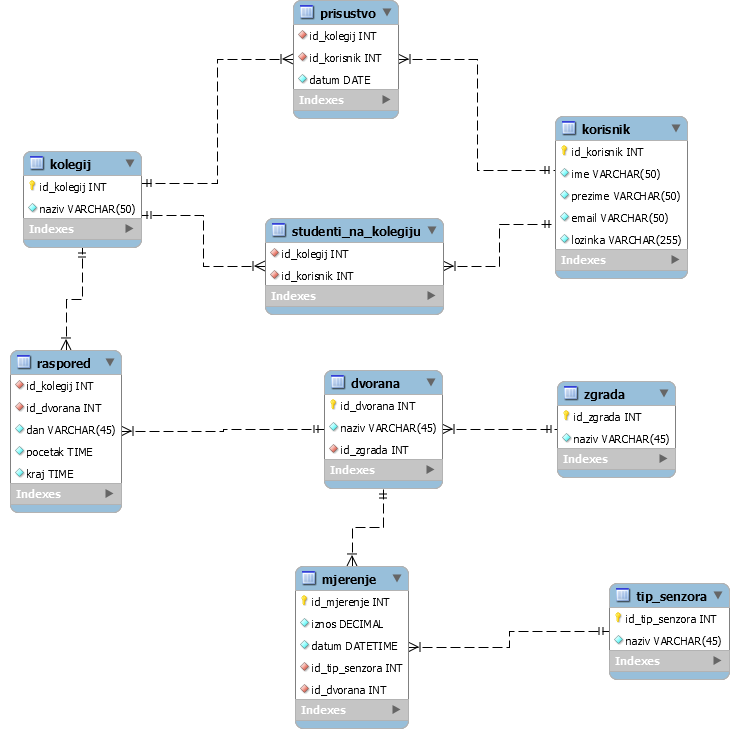
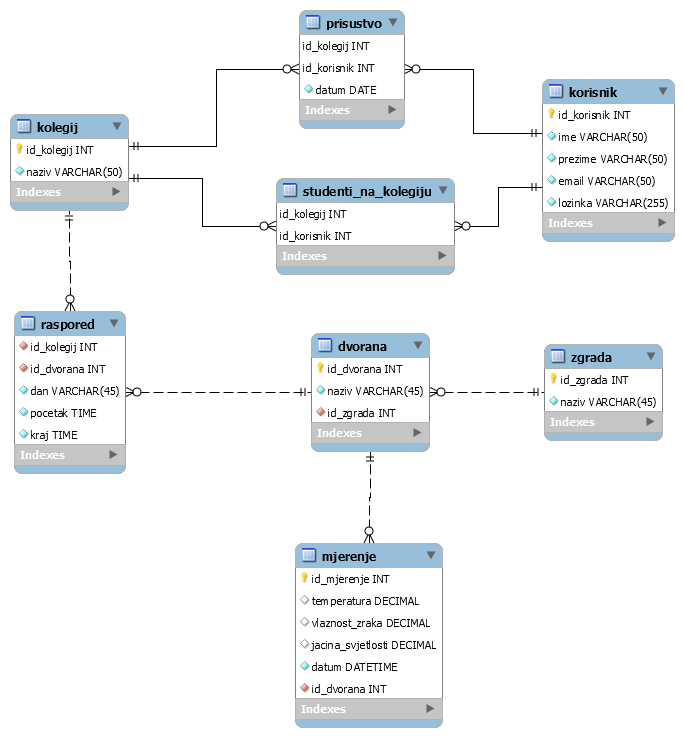
Kreiran folder za skripte web servisa. Dodana nova skripta baza.sql zbog malih promjena u modelu baze podataka. Dodana klasa za spajanje na bazu podataka s metodama spojiDB, selectDB, updateDB, pogreskaDB. Kreirana skripta provjeraPrijave.php koja prima HTTP zahtjeve POST metodom, potrebni parametri

diff --git a/skripte/baza.class.php b/skripte/baza.class.php
@@ -1,0 +1,72 @@
+<?php
+
+class Baza {
+
+    const server = "localhost";
+    const korisnik = "id7739388_microsensor";
+    const lozinka = "analizairazvojfoi";
+    const baza = "id7739388_microsensor";
+
+    private $veza = null;
+    private $greska = '';
+
+    function spojiDB() {
+        $this->veza = new mysqli(self::server, self::korisnik, self::lozinka, self::baza);
+        if ($this->veza->connect_errno) {
+            echo "Neuspješno spajanje na bazu: " . $this->veza->connect_errno . ", " .
+            $this->veza->connect_error;
+            $this->greska = $this->veza->connect_error;
+        }
+        $this->veza->set_charset("utf8");
+        if ($this->veza->connect_errno) {
+            echo "Neuspješno postavljanje znakova za bazu: " . $this->veza->connect_errno . ", " .
+            $this->veza->connect_error;
+            $this->greska = $this->veza->connect_error;
+        }
+        return $this->veza;
+    }
+
+    function zatvoriDB() {
+        $this->veza->close();
+    }
+
+    function selectDB($upit) {
+        $rezultat = $this->veza->query($upit);
+        if ($this->veza->connect_errno) {
+            echo "Greška kod upita: {$upit} - " . $this->veza->connect_errno . ", " .
+            $this->veza->connect_error;
+            $this->greska = $this->veza->connect_error;
+        }
+        if (!$rezultat) {
+            $rezultat = null;
+        }
+        return $rezultat;
+    }
+
+    function updateDB($upit, $skripta = '') {
+        $rezultat = $this->veza->query($upit);
+        if ($this->veza->connect_errno) {
+            echo "Greška kod upita: {$upit} - " . $this->veza->connect_errno . ", " .
+            $this->veza->connect_error;
+            $this->greska = $this->veza->connect_error;
+        } else {
+            if ($skripta != '') {
+                header("Location: $skripta");
+            }
+        }
+
+        return $rezultat;
+    }
+    
+    function pogreskaDB() {
+        if ($this->greska != '') {
+            return true;
+        } else {
+            return false;
+        }
+    }
+    
+}
+
+?>
+

diff --git a/skripte/provjeraPrijave.php b/skripte/provjeraPrijave.php
@@ -1,0 +1,45 @@
+<?php
+
+    require("baza.class.php");
+
+    $opcija = "";
+    $email = "";
+    $lozinka = "";
+	
+	$odgovor = array();
+	
+    if(isset($_POST["opcija"]) && isset($_POST["email"]) && isset($_POST["lozinka"])){
+        $opcija = $_POST["opcija"];
+        $email = $_POST["email"];
+        $lozinka = $_POST["lozinka"];
+    }
+    else{
+		$odgovor["success"] = 0;
+		$odgovor["message"] = "Wrong parameters!";
+		$odgovor["data"] = [];
+        echo json_encode($odgovor);
+        exit();
+    }
+
+    if($opcija == "provjeriPrijavu"){
+        $veza = new Baza();
+        $veza->spojiDB();
+        $rezultat = $veza->selectDB("select id_korisnik, ime, prezime, email from korisnik where email='$email' and lozinka='$lozinka'");
+        $veza->zatvoriDB();
+        if(mysqli_num_rows($rezultat)==0){
+            $odgovor["success"] = 0;
+			$odgovor["message"] = "No data!";
+			$odgovor["data"] = [];
+			echo json_encode($odgovor);
+        }
+        else{
+			$odgovor["success"] = 1;
+			$odgovor["message"] = "Data arrived!";
+            while($red = mysqli_fetch_assoc($rezultat)){
+                $odgovor["data"][] = $red;
+            }
+            echo json_encode($odgovor);
+        }
+        exit();
+    }
+?>
